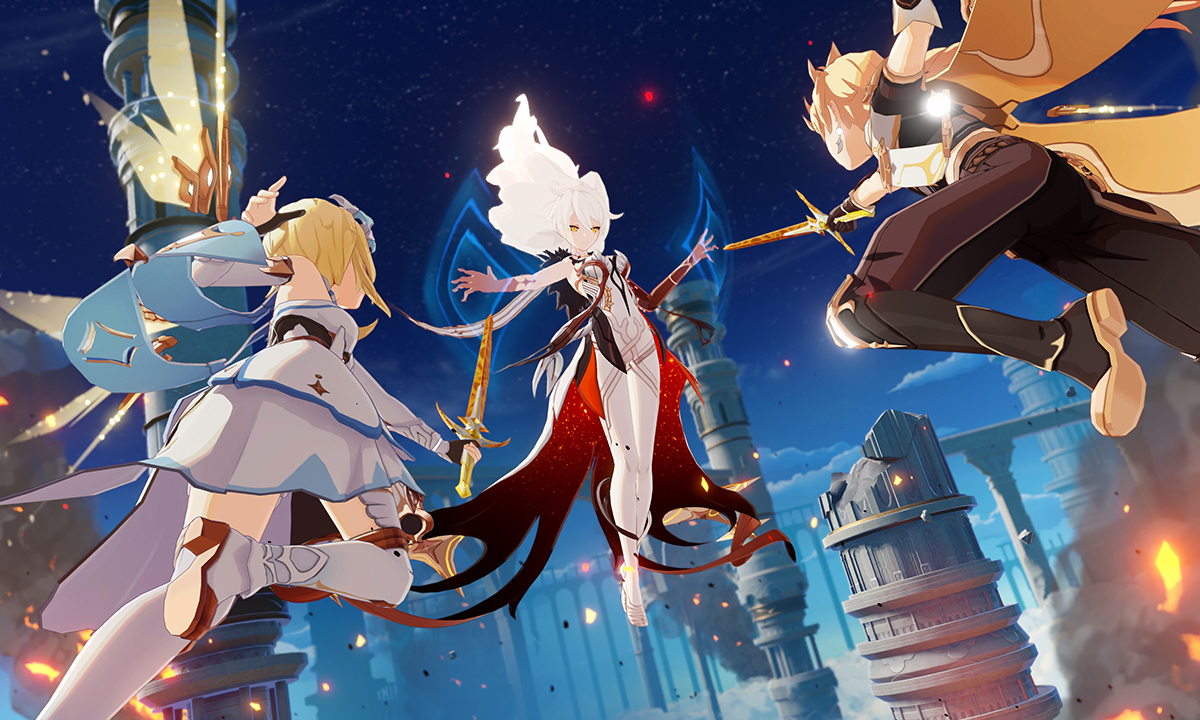
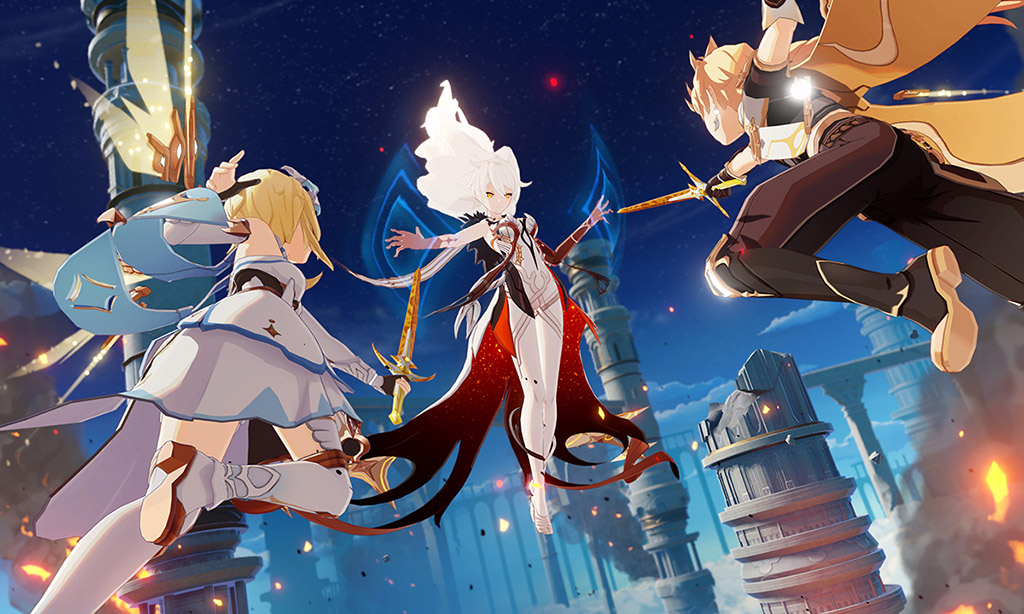
compresion de imagenes para mejor optimizacion

diff --git a/css/style.css b/css/style.css
@@ -461,7 +461,7 @@ ol {
   }
 
   .container {
-    max-width: 1440px;
+    max-width: 1280px;
   }
 
   .footer-links {
